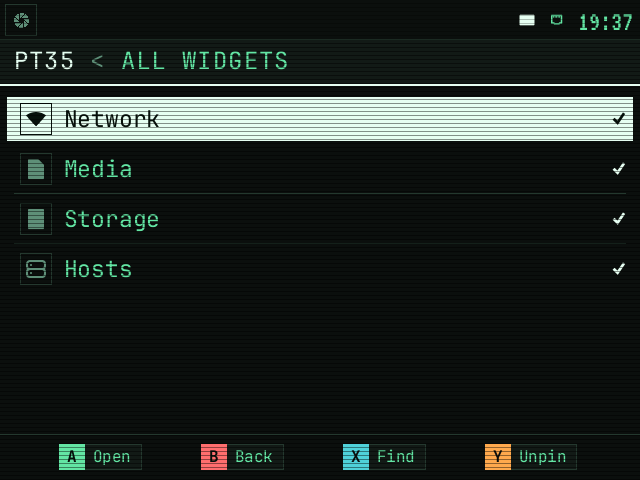
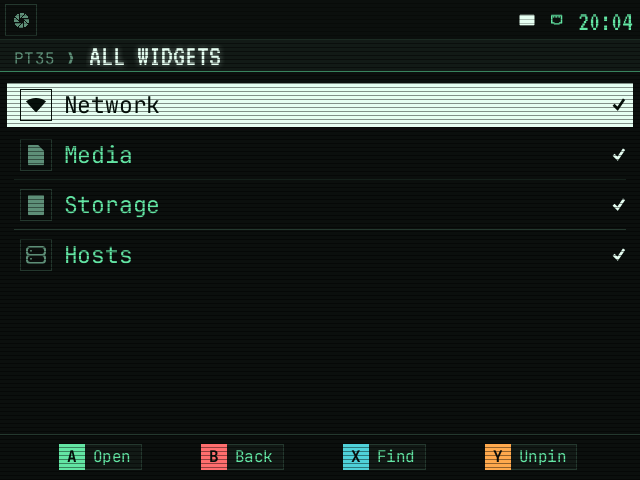
Captures refaites sur 0.4.2+u19 (fil d'Ariane)
Claude-Session: https://claude.ai/code/session_01TamZHopLs23VsKSuJrapoh

diff --git a/README.md b/README.md
@@ -204,7 +204,7 @@ Le projet est testé avec une seule version de PocketTerm35-OS, écrite dans
 la dernière version : `./install.sh` s'arrête alors et propose
 `./install.sh --pt35`. `./install.sh --force` passe outre.
 
-Une version en `+u<n>` (par exemple `0.4.2+u18`) est PocketTerm35-OS avec nos
+Une version en `+u<n>` (par exemple `0.4.2+u1`) est PocketTerm35-OS avec nos
 patchs. Le [CHANGELOG du fork](https://github.com/Kalacione/PocketTerm35-OS/blob/main/CHANGELOG.md)
 les décrit un par un. Pour revenir à la version d'avant : `git revert` du
 dernier commit de `PT35_VERSION`, puis la mise à jour ci-dessus.
